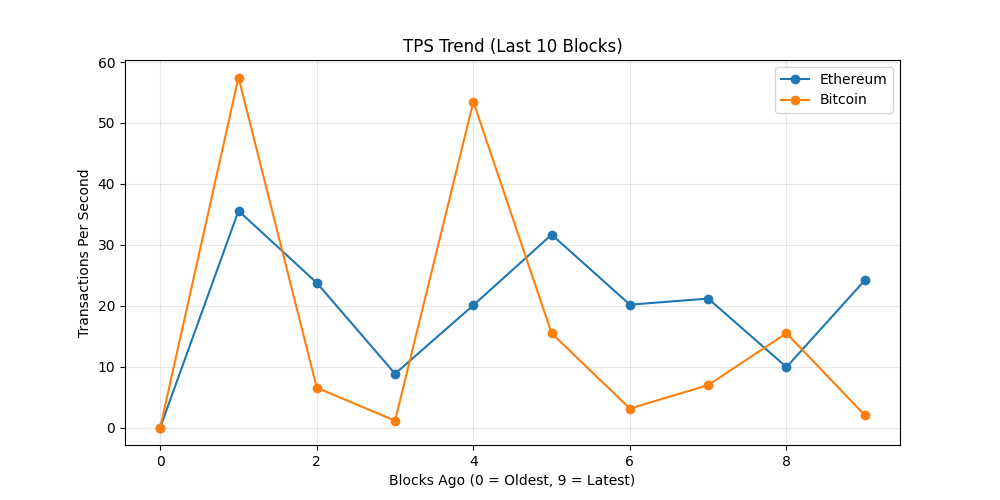
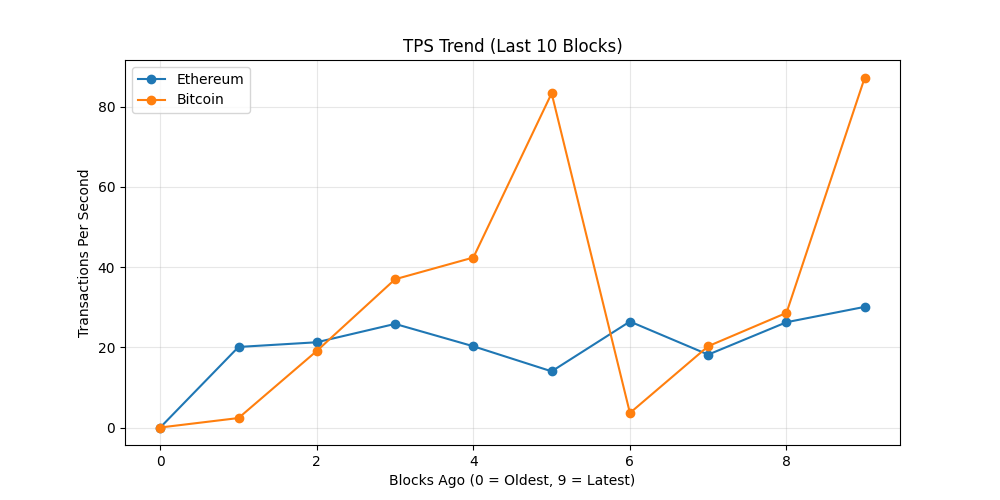
chore: update on-chain dashboard

diff --git a/README.md b/README.md
@@ -19,7 +19,7 @@ The README itself acts as the dashboard and is regenerated automatically on a 6 
 demonstrating a production-style, infrastructure-focused observability workflow rather
 than a traditional UI-driven approach.
 
-_Last updated: 2026-09-20 11:21 UTC_
+_Last updated: 2026-09-20 16:03 UTC_
 
 ## API Usage (GetBlock.io)
 - Calls used: **24**
@@ -27,8 +27,8 @@ _Last updated: 2026-09-20 11:21 UTC_
 ## Network Metrics
 | Chain | Block Height | TX Count | TPS (10 blk avg) | Block Util | Avg Fee |
 |------|-------------|----------|------------------|------------|---------|
-| Ethereum | 26018386 | 290 | 24.17 | 56.75% | 0.1 Gwei |
-| Bitcoin | 967819 | 4987 | 2.02 | 99.88% | N/A |
+| Ethereum | 26019799 | 361 | 30.08 | 52.11% | 0.1 Gwei |
+| Bitcoin | 967855 | 6457 | 87.26 | 99.89% | N/A |
 
 ## Visuals
 ### Transactions Trend
@@ -43,11 +43,11 @@ _Last updated: 2026-09-20 11:21 UTC_
 ## Whale Alerts (latest block)
 - Transaction hashes are truncated for readability.
 - Full hashes are available in `dashboards/metrics.json`
-- Bitcoin | 110.42 BTC | `308a46e4a1ac…`
-- Bitcoin | 110.63 BTC | `88f33a50d841…`
-- Bitcoin | 4982.15 BTC | `54d67b5c7708…`
-- Bitcoin | 118.71 BTC | `69ade8341f4e…`
-- Bitcoin | 114.71 BTC | `c3628dfba65d…`
+- Bitcoin | 205.1 BTC | `5bd7a90144aa…`
+- Bitcoin | 170.9 BTC | `8628339ef217…`
+- Bitcoin | 1362.22 BTC | `7fcd44fd6926…`
+- Bitcoin | 140.2 BTC | `7ea7ea2752c4…`
+- Bitcoin | 4978.05 BTC | `f6b9c269e906…`
 
 ## Run locally
 
